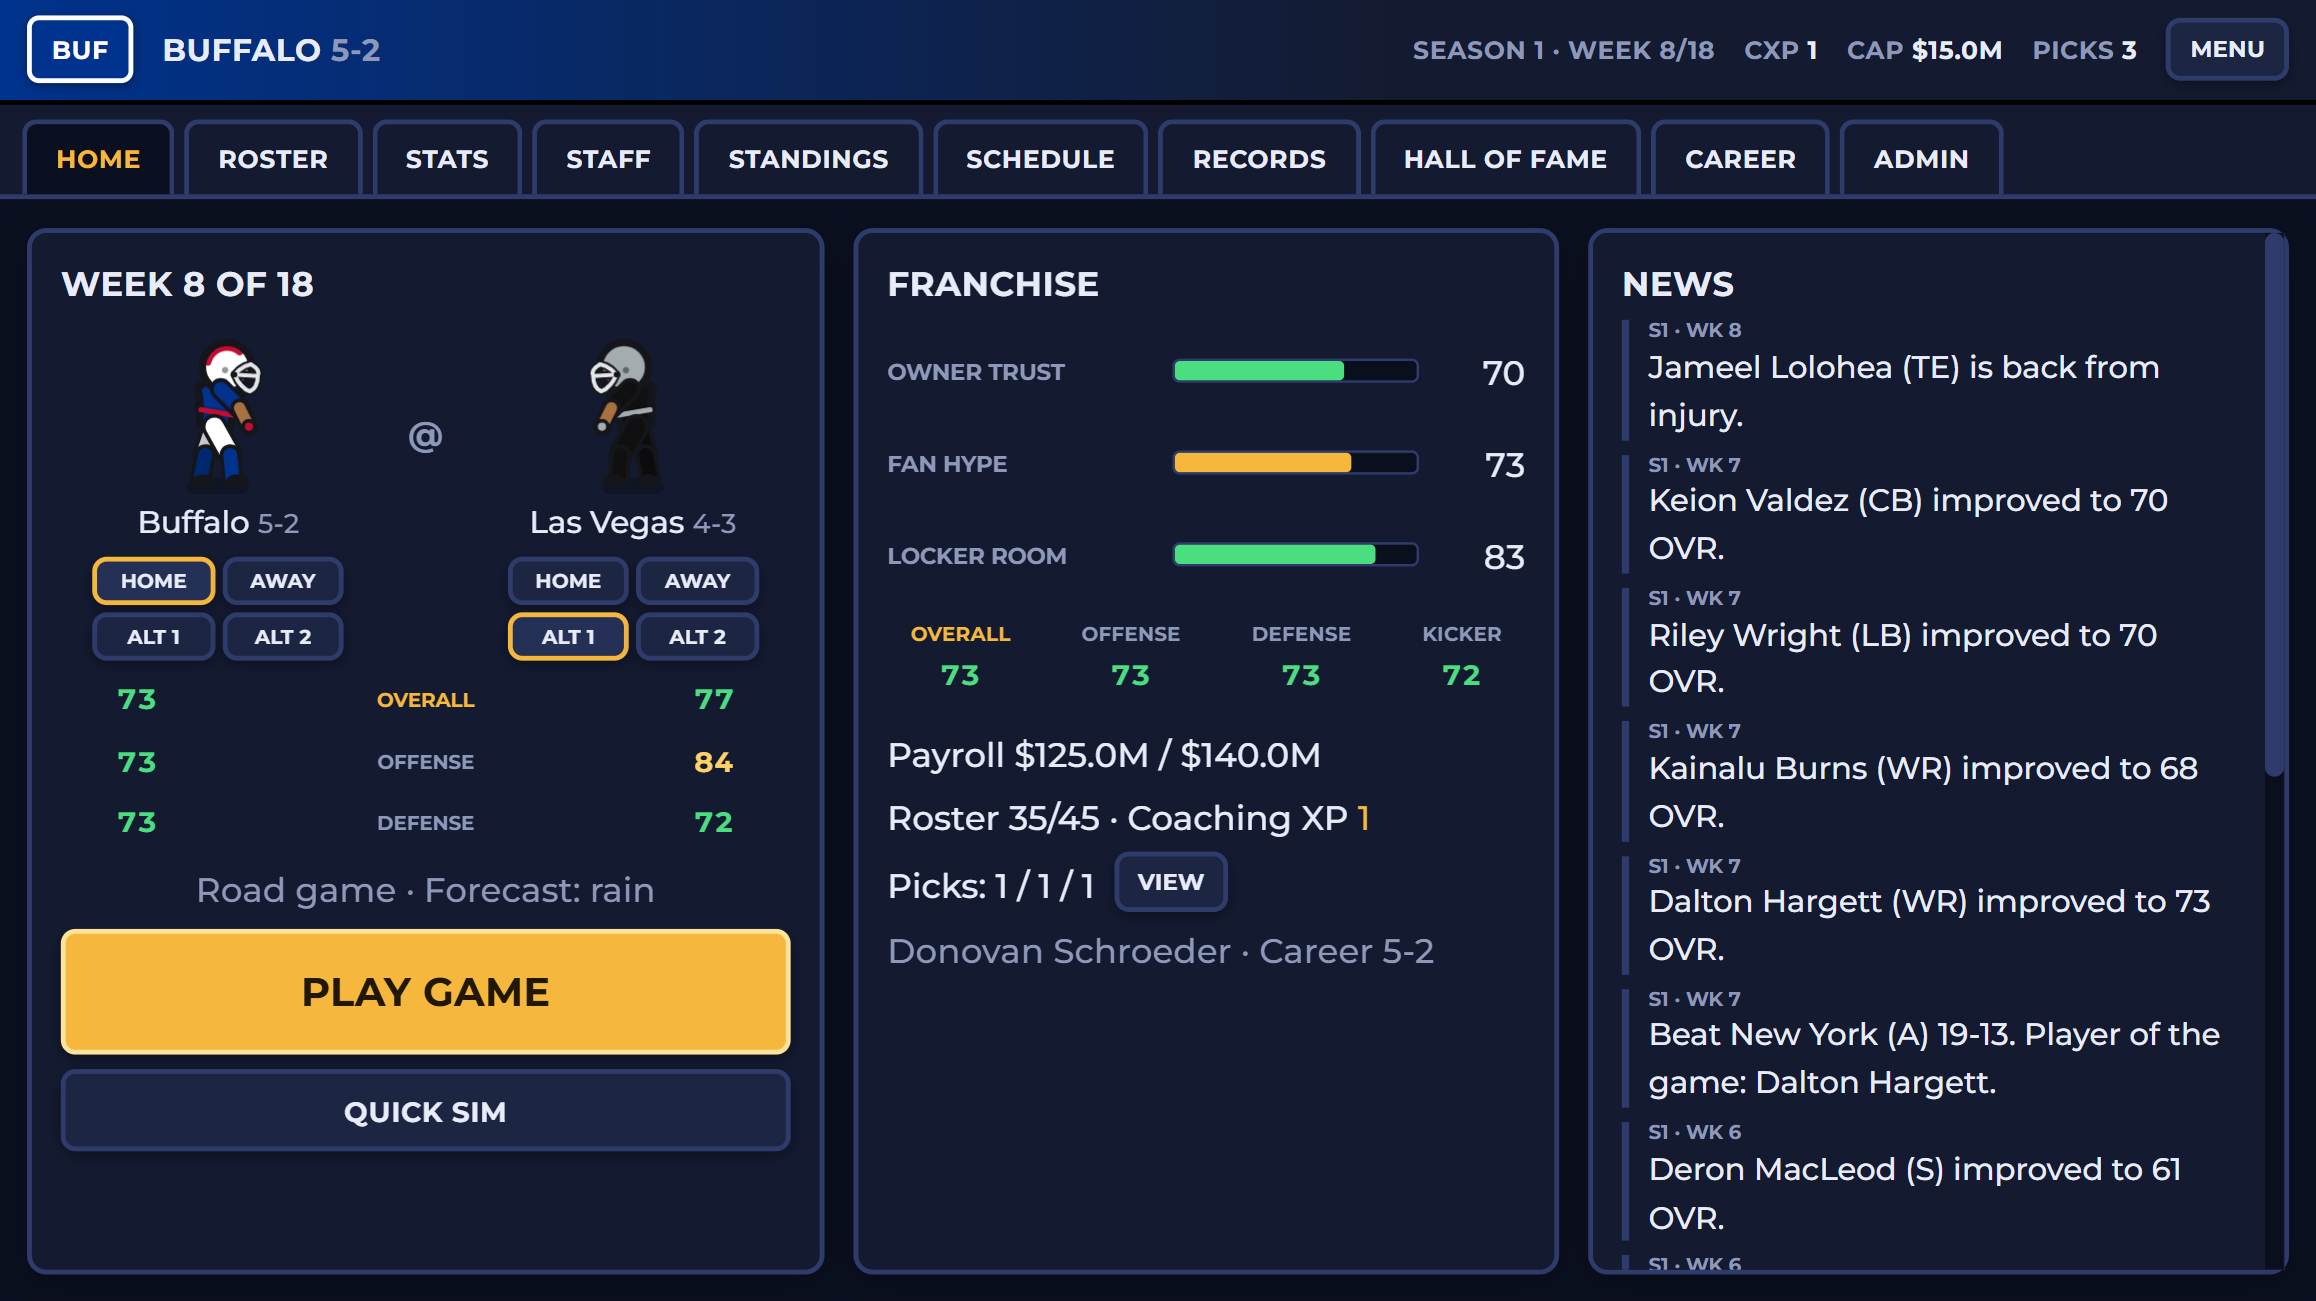
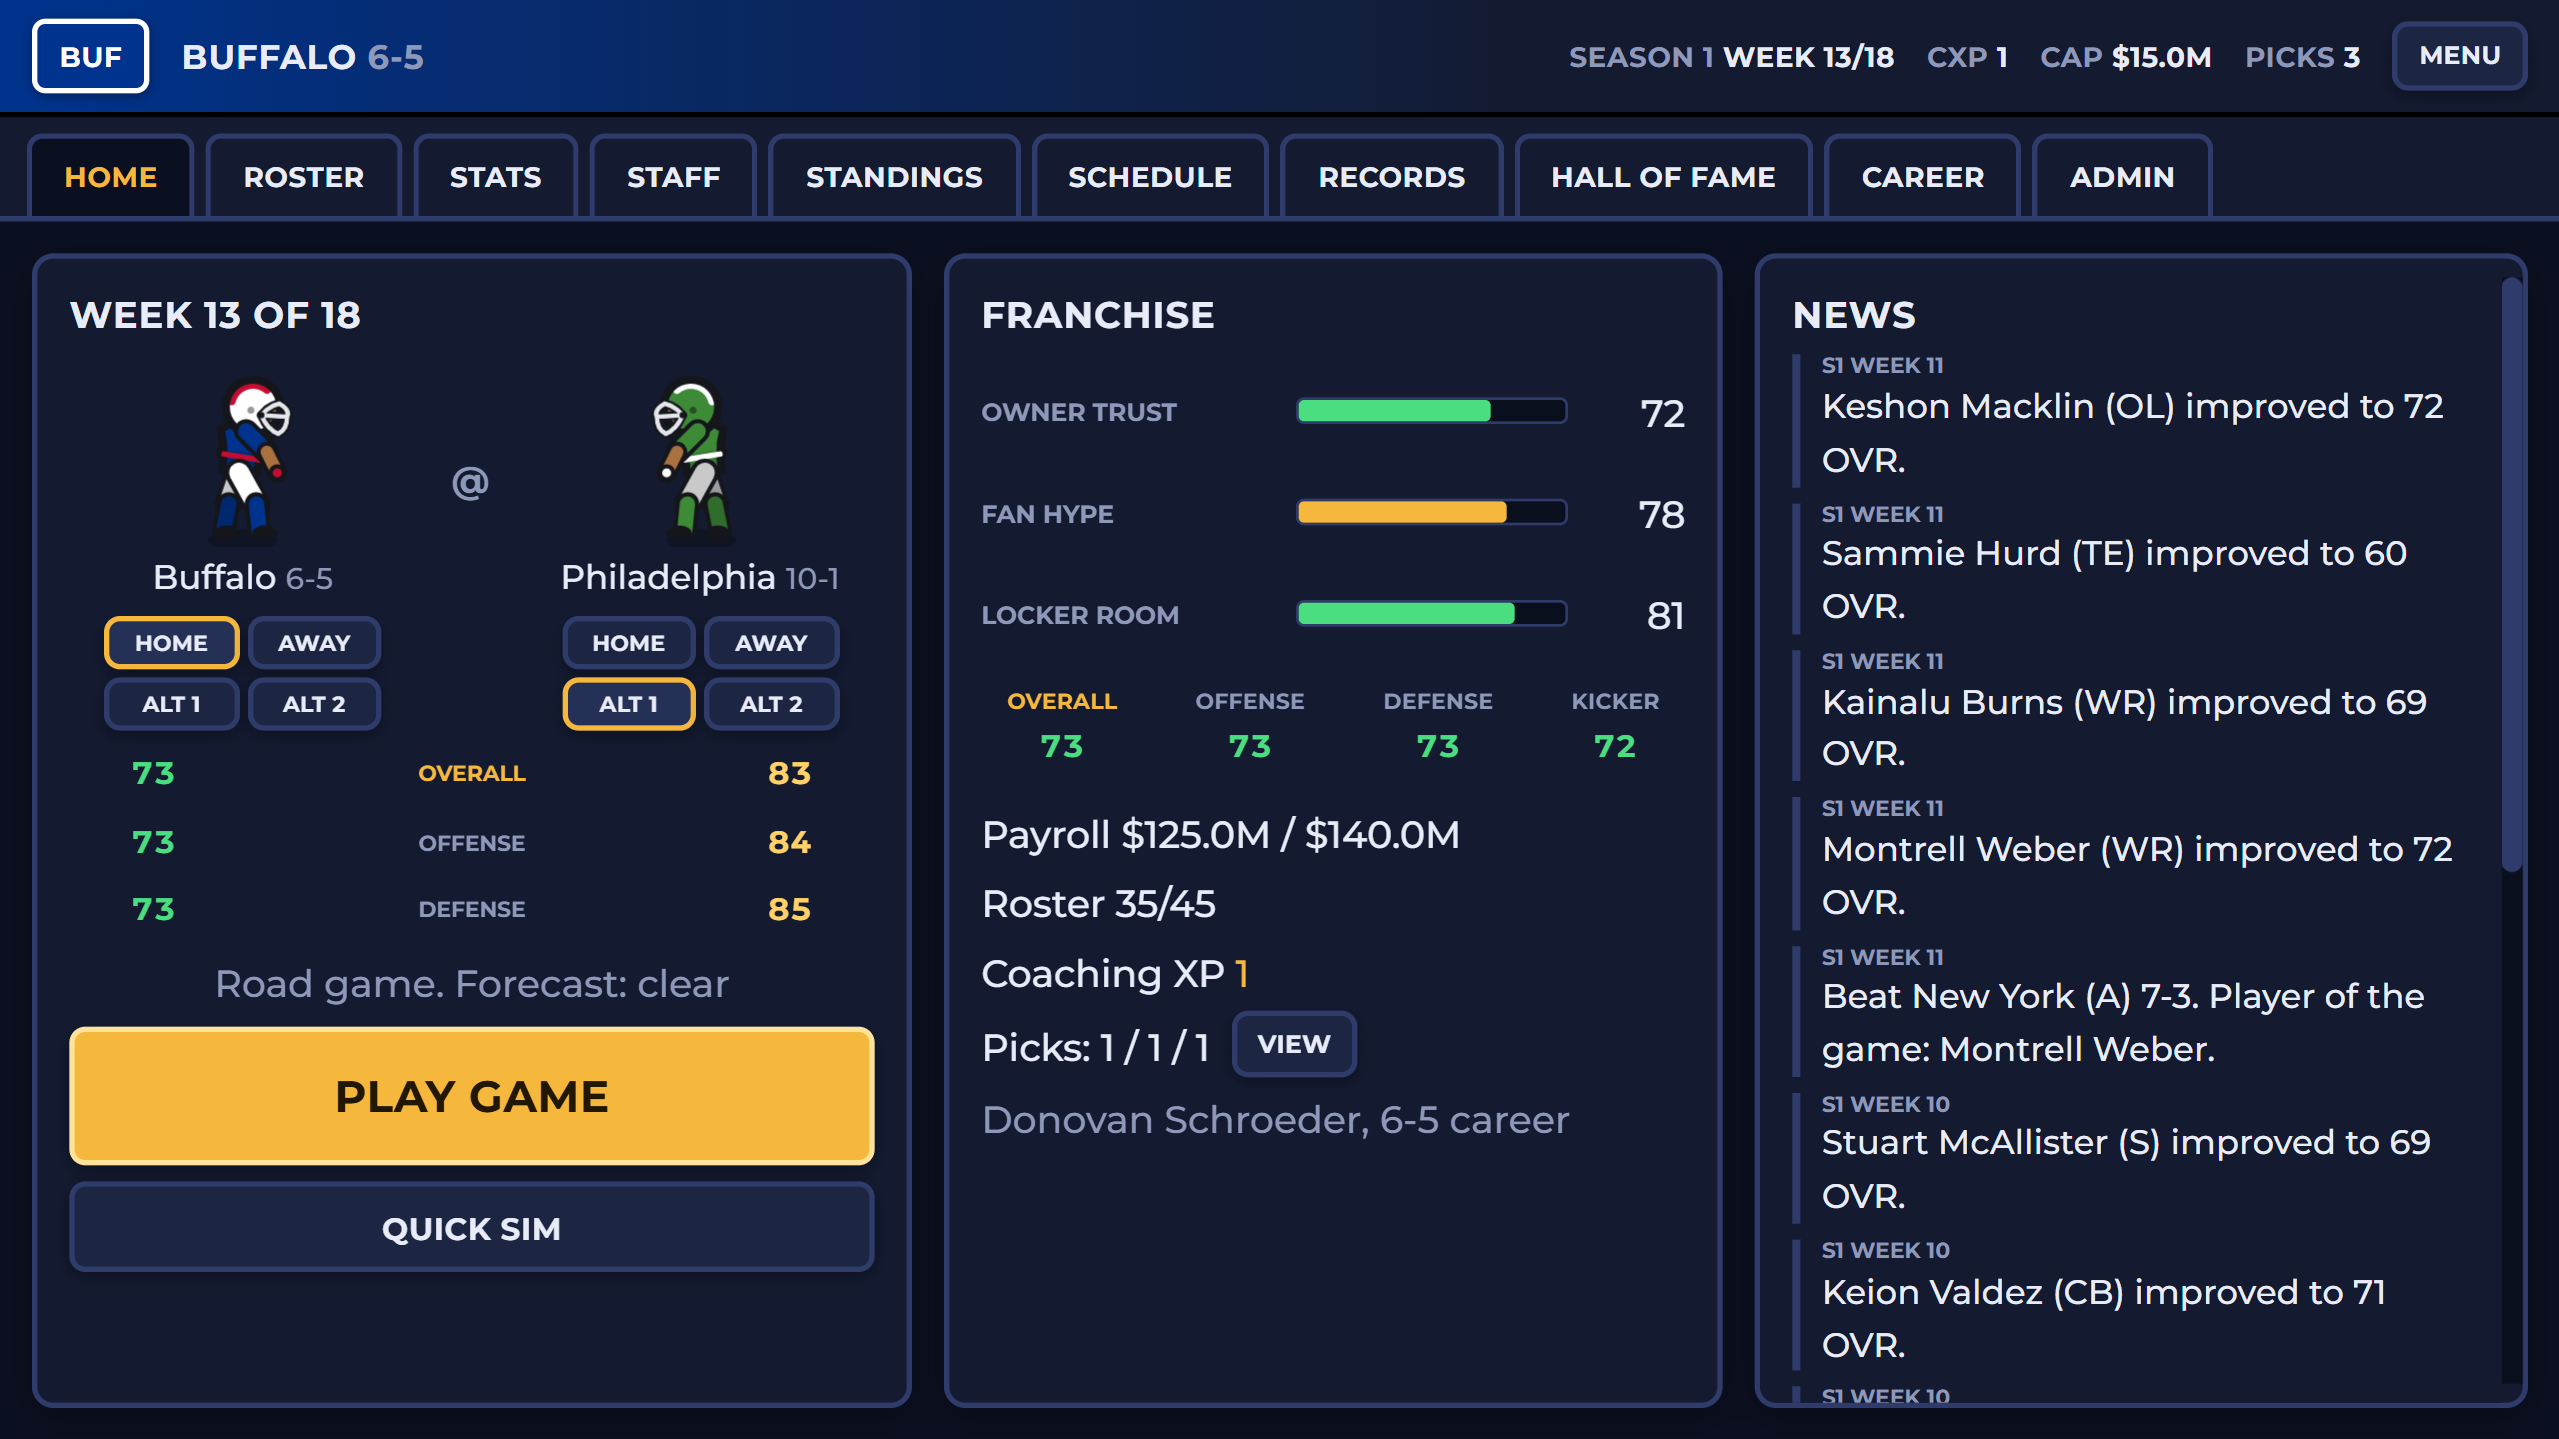
new screenshots, no copyright line

diff --git a/README.md b/README.md
@@ -27,14 +27,10 @@ An American football franchise game for the browser. Take over one of 32 teams a
 - League awards, records, a Hall of Fame, retired numbers and a season-by-season career history
 - Up to 5 careers saved in your browser, with export and import
 
-![A pass in the air in a live game](cleargame.png)
-
-![A rain game](raingame.png)
-
-![The franchise home screen](homepage.png)
+![A pass in the air in a rain game](gameplay.png)
 
 ![Picking a play from the audible list](audibles.png)
 
----
+![The franchise home screen](homepage.png)
 
-Copyright © 2026 spicypark. All rights reserved. This repository only showcases the game; its source code is private.
+![The Hall of Fame, with retired numbers](hof.png)
